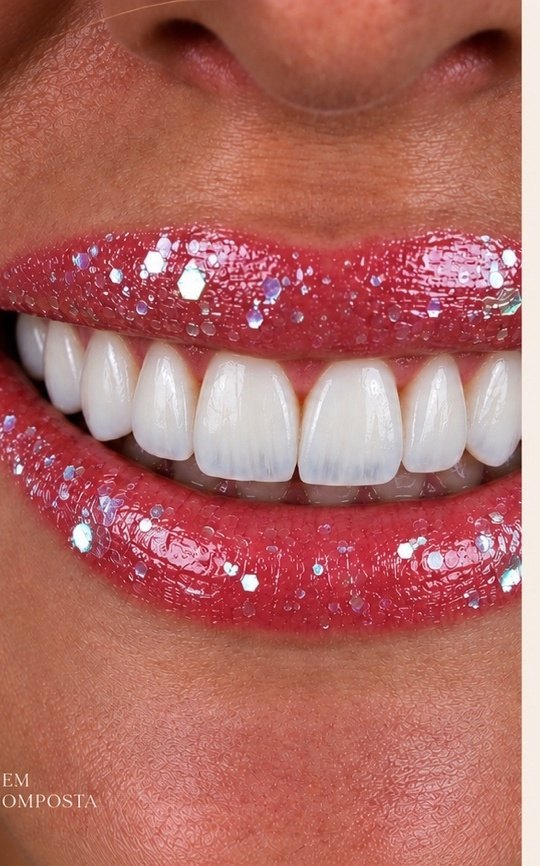
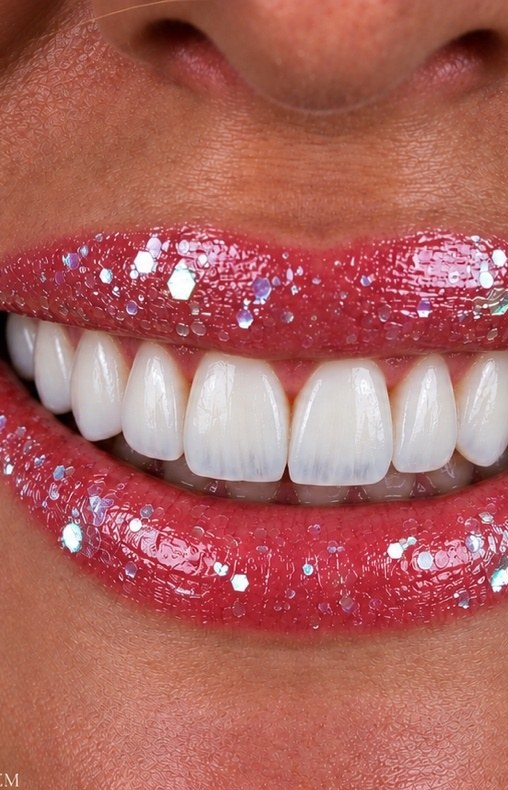
Da teoria à prática: carrossel lateral sem scrub
Claude-Session: https://claude.ai/code/session_01A1EMmL33JXj6tw1BmQxmk4

diff --git a/index.html b/index.html
@@ -213,18 +213,27 @@ section{position:relative}
 .mod em{display:block;font:500 9.5px/1 var(--sans);letter-spacing:.3em;color:var(--mute);font-style:normal;margin-bottom:6px}
 .day .note{font-family:var(--serif);font-style:italic;font-size:21px;line-height:1.35;color:var(--ink2);border-top:1px solid var(--line);padding-top:22px}
 
-/* CLÍNICA scrub */
-.clinic{height:420vh}
-.clinic .stage-in{display:flex;flex-direction:column;align-items:center;justify-content:center;gap:clamp(18px,3vh,34px);padding-top:70px}
-.clinic-title{text-align:center;display:grid;gap:14px;justify-items:center;padding:0 20px}
+/* CLÍNICA — carrossel horizontal com rolagem livre */
+.clinic{overflow:hidden}
+.clinic-title{text-align:center;display:grid;gap:14px;justify-items:center}
 .clinic-title h2{font-size:clamp(40px,6vw,92px)}
-.slides{position:relative;height:min(58svh,620px);aspect-ratio:3/4.2;max-width:82vw}
-.slide{position:absolute;inset:0;border-radius:28px;overflow:hidden;box-shadow:var(--shadow);opacity:0;will-change:transform,opacity}
-.slide img{width:100%;height:100%;object-fit:cover;filter:var(--photo-filter)}
-.slide figcaption{position:absolute;left:14px;right:14px;bottom:14px;padding:14px 18px;border-radius:16px;font:500 10.5px/1.4 var(--sans);letter-spacing:.24em;text-transform:uppercase;color:var(--ink)}
-.counter{position:absolute;right:max(5vw,20px);bottom:clamp(30px,6vh,60px);font:500 12px/1 var(--sans);letter-spacing:.3em;color:var(--mute);display:flex;align-items:center;gap:14px}
+.crail{display:flex;gap:clamp(14px,2vw,26px);overflow-x:auto;scroll-snap-type:x mandatory;scroll-behavior:smooth;-webkit-overflow-scrolling:touch;
+  margin-top:clamp(36px,5vw,60px);padding:10px max(5vw,20px) 30px;scroll-padding-inline:max(5vw,20px);scrollbar-width:none;overscroll-behavior-x:contain}
+.crail::-webkit-scrollbar{display:none}
+.crail:focus-visible{outline:2px solid var(--gold);outline-offset:-2px}
+.cslide{flex:0 0 auto;width:clamp(250px,30vw,400px);aspect-ratio:3/4.3;position:relative;border-radius:26px;overflow:hidden;box-shadow:var(--shadow);scroll-snap-align:start;min-width:0}
+.cslide img{width:100%;height:100%;object-fit:cover;filter:var(--photo-filter);transition:transform 1.2s var(--ease)}
+.cslide:hover img{transform:scale(1.04)}
+.cslide figcaption{position:absolute;left:12px;right:12px;bottom:12px;padding:13px 16px;border-radius:16px;font:500 10.5px/1.4 var(--sans);letter-spacing:.24em;text-transform:uppercase;color:var(--ink)}
+.cctrl{display:flex;align-items:center;justify-content:space-between;gap:20px;margin-top:6px}
+.counter{font:500 12px/1 var(--sans);letter-spacing:.3em;color:var(--mute);display:flex;align-items:center;gap:14px}
 .counter i{display:block;width:90px;height:1px;background:var(--line);position:relative;overflow:hidden}
-.counter i::after{content:"";position:absolute;inset:0;background:var(--gold);transform:scaleX(var(--p,0));transform-origin:left}
+.counter i::after{content:"";position:absolute;inset:0;background:var(--gold);transform:scaleX(var(--p,0));transform-origin:left;transition:transform .4s var(--ease)}
+.carrows{display:flex;gap:10px}
+.carrow{width:48px;height:48px;border-radius:50%;display:grid;place-items:center;color:var(--ink);cursor:pointer;border:0}
+.carrow svg{width:18px;height:18px}
+.carrow:disabled{opacity:.35;cursor:default}
+@media (max-width:600px){.cslide{width:78vw}}
 
 /* ACOMPANHAMENTO */
 .acomp{display:grid;grid-template-columns:1.1fr .9fr;gap:clamp(40px,6vw,100px);align-items:center}
@@ -391,7 +400,6 @@ footer{border-top:1px solid var(--line);padding:56px 0 110px}
   .forwho,.benefits,.plist,.prices,.concept-list{grid-template-columns:1fr}
   .insc{grid-template-columns:1fr;text-align:center;justify-items:center}.insc hr{width:70px;height:1px}
   .mod{grid-template-columns:48px 1fr;padding:12px 14px}.mod b{font-size:28px}
-  .clinic{height:360vh}
   .posic h2,.acomp-h h2{font-size:clamp(30px,8.4vw,48px)}
   .day-num{font-size:84px}
   .wa-float{width:54px;height:54px}
@@ -541,17 +549,17 @@ footer{border-top:1px solid var(--line);padding:56px 0 110px}
 </section>
 
 <!-- CLÍNICA — scrub de imagens -->
-<section class="clinic" id="clinica">
-  <div class="stage-in">
+<section class="clinic band" id="clinica">
+  <div class="wrap clinic-head">
     <div class="clinic-title"><div class="eyebrow c">Dia 02 · Acompanhamento prático</div><h2>Da teoria <em>à prática.</em></h2></div>
-    <div class="slides" id="slides">
-      <figure class="slide"><img src="img/clinica-1.jpg" alt="Dra. Andrea em atendimento clínico" loading="lazy"><figcaption class="glass">Execução clínica</figcaption></figure>
-      <figure class="slide"><img src="img/clinica-2.jpg" alt="Dra. Andrea executando facetas com auxiliar" loading="lazy"><figcaption class="glass">Construção das facetas</figcaption></figure>
-      <figure class="slide"><img src="img/sorriso-2.jpg" alt="Sorriso com facetas em resina composta" loading="lazy"><figcaption class="glass">Refinamento estético</figcaption></figure>
-      <figure class="slide"><img src="img/clinica-3.jpg" alt="Dra. Andrea fotografando o resultado" loading="lazy"><figcaption class="glass">Fotografia e análise</figcaption></figure>
-      <figure class="slide"><img src="img/sorriso-1.jpg" alt="Detalhe de facetas em resina composta" loading="lazy"><figcaption class="glass">Naturalidade</figcaption></figure>
-    </div>
+  </div>
+  <div class="crail" id="crail" tabindex="0" aria-label="Fotos da imersão clínica"><figure class="cslide"><img src="img/clinica-1.jpg" alt="Dra. Andrea em atendimento clínico" loading="lazy"><figcaption class="glass">Execução clínica</figcaption></figure><figure class="cslide"><img src="img/clinica-2.jpg" alt="Dra. Andrea executando facetas com auxiliar" loading="lazy"><figcaption class="glass">Construção das facetas</figcaption></figure><figure class="cslide"><img src="img/sorriso-2.jpg" alt="Sorriso com facetas em resina composta" loading="lazy"><figcaption class="glass">Refinamento estético</figcaption></figure><figure class="cslide"><img src="img/clinica-3.jpg" alt="Dra. Andrea fotografando o resultado" loading="lazy"><figcaption class="glass">Fotografia e análise</figcaption></figure><figure class="cslide"><img src="img/sorriso-1.jpg" alt="Detalhe de facetas em resina composta" loading="lazy"><figcaption class="glass">Naturalidade</figcaption></figure></div>
+  <div class="wrap cctrl">
     <div class="counter"><span id="cnum">01</span><i id="cbar"></i><span>05</span></div>
+    <div class="carrows">
+      <button class="carrow glass" id="cprev" aria-label="Foto anterior"><svg viewBox="0 0 24 24" fill="none" stroke="currentColor" stroke-width="1.4"><path d="M15 6l-6 6 6 6"/></svg></button>
+      <button class="carrow glass" id="cnext" aria-label="Próxima foto"><svg viewBox="0 0 24 24" fill="none" stroke="currentColor" stroke-width="1.4"><path d="M9 6l6 6-6 6"/></svg></button>
+    </div>
   </div>
 </section>
 
@@ -700,7 +708,7 @@ const ease=t=>1-Math.pow(1-t,3);
 const nav=$('#nav');
 const draws=$$('[data-draw]').map(p=>{const L=p.getTotalLength();p.style.strokeDasharray=L;p.style.strokeDashoffset=L;return {p,L,box:p.closest('section')}});
 const pars=$$('[data-par]').map(el=>({el,img:$('img',el),k:+el.dataset.par}));
-const words=$$('.word'), stage=$('#mentoria'), clinic=$('#clinica'), slides=$$('.slide'), cnum=$('#cnum'), cbar=$('#cbar');
+const words=$$('.word'), stage=$('#mentoria');
 const heroImg=$('#heroImg'), badge=$('#badge');
 // progresso de uma seção: 0 quando o topo entra, 1 quando o fim sai
 const prog=el=>{const r=el.getBoundingClientRect();return clamp((innerHeight-r.top)/(r.height+innerHeight))};
@@ -728,19 +736,6 @@ function frame(){
     w.style.transform=`translateX(${(1-t)*40}px)`;
     w.style.filter=`blur(${(1-t)*6}px)`;
   });
-  // clínica: imagem → zoom → deslocamento → próxima
-  const cp=stick(clinic), n=slides.length, seg=cp*n, idx=Math.min(n-1,Math.floor(seg)), f=seg-idx;
-  slides.forEach((s,i)=>{
-    let o=0,x=0,sc=1,ro=0;
-    if(i===idx){
-      const out=i<n-1?ease(clamp((f-.7)/.3)):0;
-      o=1-out;
-      sc=1+f*.08; x=-out*120; ro=-out*2;
-    }else if(i===idx+1){const t=ease(clamp((f-.7)/.3));o=t;x=(1-t)*120;sc=.94+t*.06;ro=(1-t)*2}
-    s.style.opacity=o;s.style.transform=`translateX(${x}px) scale(${sc}) rotate(${ro}deg)`;s.style.zIndex=i===idx+1?2:1;
-  });
-  cnum.textContent=String(idx+1).padStart(2,'0');
-  cbar.style.setProperty('--p',cp);
 }
 const req=()=>{if(!ticking){ticking=true;requestAnimationFrame(frame)}};
 // luz do vidro: segue o ponteiro no desktop e desliza com o scroll no celular
@@ -748,7 +743,7 @@ addEventListener('pointermove',e=>{if(e.pointerType!=='mouse')return;root.style.
 addEventListener('scroll',()=>{if(matchMedia('(pointer:coarse)').matches){const t=(Math.sin(scrollY/420)+1)/2;root.style.setProperty('--lx',(15+t*70).toFixed(1)+'%');root.style.setProperty('--la',(190+t*50).toFixed(0)+'deg')}},{passive:true});
 addEventListener('scroll',req,{passive:true});
 addEventListener('resize',req);
-if(reduce){slides.forEach((s,i)=>{s.style.opacity=i===0?1:0});words.forEach(w=>w.style.opacity=1)}
+if(reduce){words.forEach(w=>w.style.opacity=1)}
 frame();
 }
 
@@ -790,7 +785,7 @@ function tick(now){const dt=Math.min(.05,(now-last)/1000);last=now;boost*=Math.p
   requestAnimationFrame(tick)}
 if(!reduce)requestAnimationFrame(tick);
 // flutuante: só aparece entre o fim do herói e o início do investimento, e nunca junto das faixas editoriais
-const mini=document.getElementById('imFloat'),inv=document.getElementById('investimento'),eds=[...document.querySelectorAll('.imersao:not(.mini)')];
+const mini=document.getElementById('imFloat'),inv=document.getElementById('investimento'),eds=[...document.querySelectorAll('.imersao:not(.mini), #crail')];
 const upd=()=>{const past=scrollY>innerHeight*1.1;const r=inv.getBoundingClientRect();const before=r.top>innerHeight*.9;
   const edVis=eds.some(e=>{const q=e.getBoundingClientRect();return q.bottom>0&&q.top<innerHeight});
   mini.classList.toggle('show',past&&before&&!edVis)};
@@ -798,6 +793,19 @@ addEventListener('scroll',upd,{passive:true});upd();
 // palavra INVESTIMENTO desliza com o scroll
 const word=document.getElementById('invWord');
 addEventListener('scroll',()=>{if(reduce)return;const r=inv.getBoundingClientRect();const t=(innerHeight-r.top)/(r.height+innerHeight);word.style.setProperty('--wx',((.5-t)*220).toFixed(1)+'px')},{passive:true});
+}
+
+// carrossel clínico: rolagem lateral nativa (dedo, trackpad, setas)
+{
+const rail=document.getElementById('crail'),slides=[...rail.children],num=document.getElementById('cnum'),bar=document.getElementById('cbar'),prev=document.getElementById('cprev'),next=document.getElementById('cnext');
+const step=()=>slides[0].getBoundingClientRect().width+parseFloat(getComputedStyle(rail).columnGap||20);
+const upd=()=>{const max=rail.scrollWidth-rail.clientWidth;const p=max>0?rail.scrollLeft/max:0;const i=Math.min(slides.length-1,Math.round(rail.scrollLeft/step()));
+  num.textContent=String(i+1).padStart(2,'0');bar.style.setProperty('--p',Math.max(.2,p).toFixed(3));prev.disabled=rail.scrollLeft<4;next.disabled=rail.scrollLeft>max-4};
+rail.addEventListener('scroll',()=>requestAnimationFrame(upd),{passive:true});addEventListener('resize',upd);
+prev.addEventListener('click',()=>rail.scrollBy({left:-step(),behavior:'smooth'}));
+next.addEventListener('click',()=>rail.scrollBy({left:step(),behavior:'smooth'}));
+rail.addEventListener('keydown',e=>{if(e.key==='ArrowRight'){e.preventDefault();next.click()}if(e.key==='ArrowLeft'){e.preventDefault();prev.click()}});
+upd();
 }
 </script>
 </body>
